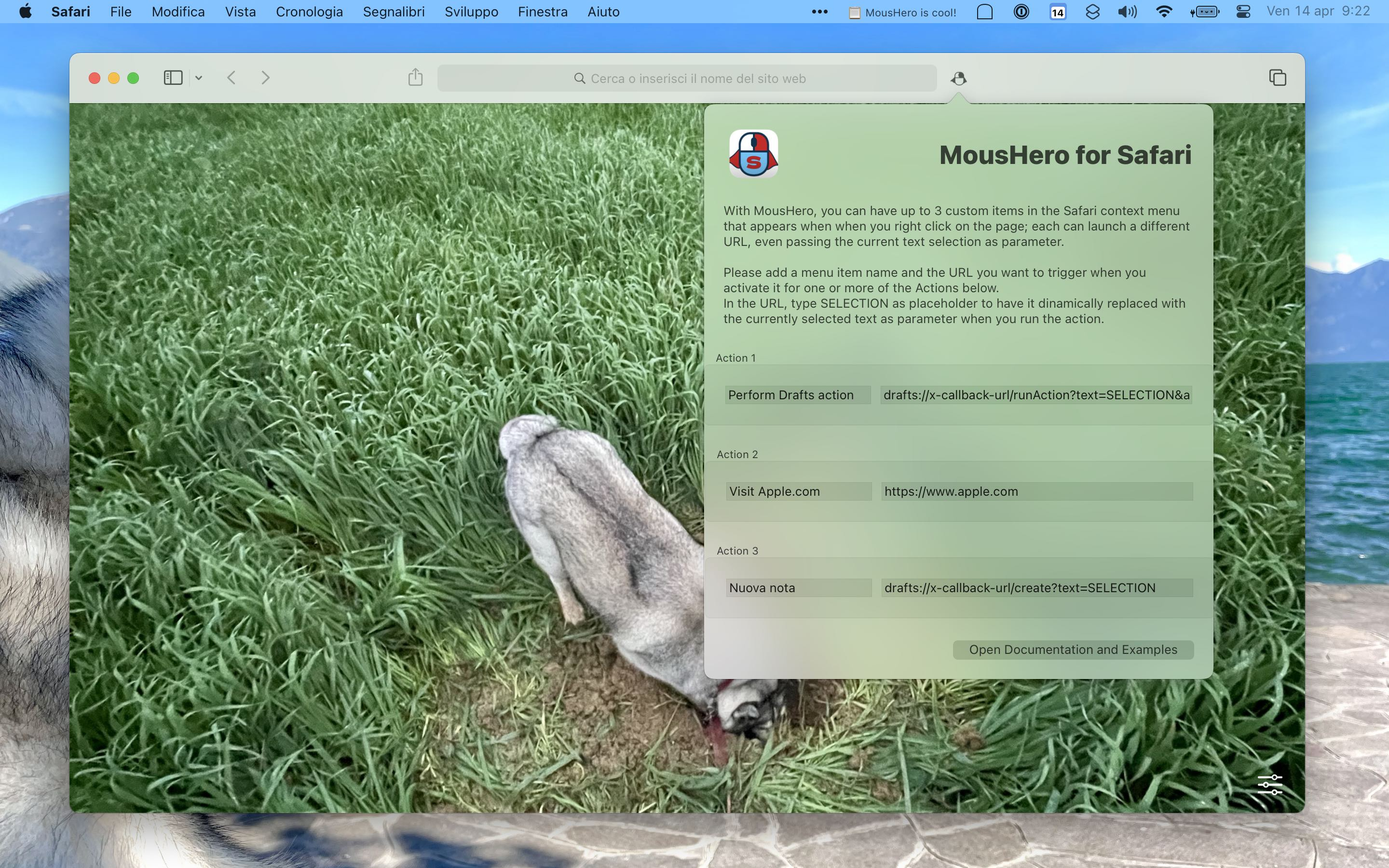
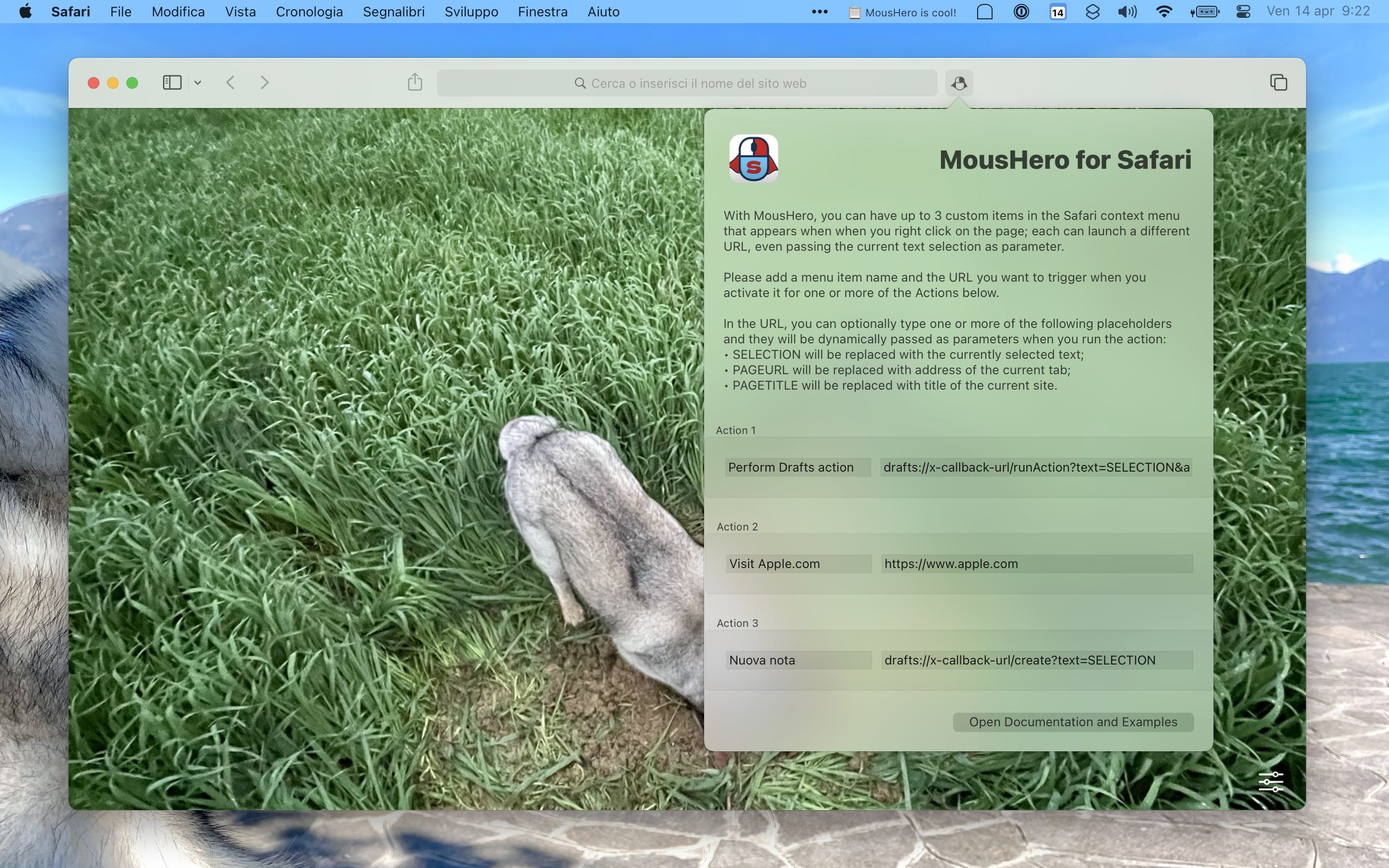
MousHero 1.1 website updates

diff --git a/moushero-for-safari/moushero-documentation-and-examples.md b/moushero-for-safari/moushero-documentation-and-examples.md
@@ -7,7 +7,7 @@ tags: [moushero]
 ---
 **_What is MousHero?_**<br>
 MousHero _(mouse-hero)_ is a **Safari for Mac extension** that adds automation superpowers to your browsing experience: **trigger URL actions by adding up to 3 custom context menu items to Safari's right-click menu**.<br>
-Just by right-clicking on a webpage, you'll be able to launch apps, services and automations _(for instance with third party applications such as Shortcuts, Keyboard Maestro, Drafts, etc.)_, optionally passing the currently selected text as parameter.
+Just by right-clicking on a webpage, you'll be able to launch apps, services and automations _(for instance with third party applications such as Shortcuts, Keyboard Maestro, Drafts, etc.)_, optionally passing the currently selected text, page URL and title as parameters.
 <br>
 
 **_How do I configure MousHero?_**<br>
@@ -19,23 +19,27 @@ d. Add a name for the custom menu item and the URL you want to execute when you 
 e. Now, right-click anywhere in your Safari page, or select some text and then right-click, and your custom actions will appear in the context menu.
 <br>
 
-**_Can I pass the selected text as parameter in the action URL?_**<br>
-Yes! **Just type in SELECTION as placeholder in the URL**, and MousHero will take care of replacing it while properly percent-encoding the text. See the examples below for details.
+**_Can I pass the selected text as parameter into the action URL? What about the website address and title?_**<br>
+Yes, yes and yes! **Just type in SELECTION as placeholder in the action URL to have it dynamically replaced with the selected text when you run the action**.<br>
+Additional placeholders are **PAGEURL for the website address** and **PAGETITLE for the, you guessed it, title of the current page**.
+And you can combine multiple placeholders in a single action URL, MousHero will take care of replacing them while properly percent-encoding the text. See the examples below for details.
 <br>
 
 **_I need some examples of URLs I can use..._**<br>
 You can add any kind of URL to a MousHero action, so the only limits are your imagination and the availability of a URL scheme for the third-party applications and services you're using.
-Here's a few examples of what you'll be able to achieve with just a right-click inside Safari, to inspire you and show how the SELECTION placeholder can be used to pass the currently selected text as parameter in the URL:
+Here's a few examples of what you'll be able to achieve with just a right-click inside Safari, to inspire you and show how the SELECTION, PAGEURL and PAGETITLE placeholders can be used to pass informations as parameters in the URL:
 
 | Use case  | URL                                                                                                                |
 |-----------|--------------------------------------------------------------------------------------------------------------------|
 | Open a specific website in a new panel                | _https://www.instagram.com/millakillapilla/_                           |
 | Run your Shortcuts                                    | _shortcuts://run-shortcutname=ShortcutName_                            |
-| Run your Shortucts passing the selection as parameter | _shortcuts://run-shortcut?name=ShortcutName&input=text&text=SELECTION_ | 
+| Run your Shortucts passing the selection as parameter | _shortcuts://run-shortcut?name=ShortcutName&input=text&text=SELECTION_ |
+| Run your Shortucts passing the page URL as parameter  | _shortcuts://run-shortcut?name=ShortcutName&input=text&text=PAGEURL_   | 
 | Create a new note in Drafts with the selected text    | _drafts://x-callback-url/create?text=SELECTION_                        |
 | Run a Drafts action without creating a new note       | _drafts://x-callback-url/runAction?text=SELECTION&action=ActionName_   |
 | Open the Inbox project in OmniFocus                   | _omnifocus:///inbox_                                                   |
 | Add the selected text as task in OmniFocus            | _omnifocus://x-callback-url/add?name=SELECTION_                        |
+| Add page title to OmniFocus with the URL in the note  | _omnifocus://x-callback-url/add?name=PAGETITLE&note=PAGEURL_           |
 | Run a Keyboard Maestro macro passing the selection    | _kmtrigger://macro=MacroName&value=SELECTION_                          |
 | Search the selected text on Google Maps               | _https://www.google.com/maps/search/SELECTION_                         |
 | Search the selected text on StackOverflow             | _https://stackoverflow.com/search?q=SELECTION_                         |

diff --git a/moushero-for-safari.md b/moushero-for-safari.md
@@ -15,7 +15,7 @@ nav-menu: true
 			<b>MousHero is a Safari extension that adds automation superpowers to your browsing experience: trigger URL actions by adding up to 3 custom context menu items to Safari's right-click menu.</b>
 			<br>
 			<br>
-			You'll be able to <b>launch apps, services and automations</b> (for instance with third party applications such as Shortcuts, Keyboard Maestro, Drafts, etc.), optionally passing the currently selected text as parameter.
+			You'll be able to <b>launch apps, services and automations</b> (for instance with third party applications such as Shortcuts, Keyboard Maestro, Drafts, etc.), optionally passing the currently selected text, page URL and title as parameters.
 		</p>
 				<p style="text-align:center">
 			<a href="https://apps.apple.com/us/app/moushero-for-safari/id6447680045" class="image" target="new">
@@ -25,7 +25,7 @@ nav-menu: true
 		<p>
 			<b><a href="{{ site.baseurl }}/moushero-for-safari/moushero-documentation-and-examples.html">MousHero Documentation</a> lists URL examples for many use cases</b>, but here's a few ideas of what you'll be able to achieve with just a right-click inside Safari:
 			<li>Run your Shortcuts, optionally passing the selected text as parameter;</li>
-			<li>Create a new note in Drafts with the selected text, or skip the note creation and directly execute a Drafts action on the selection;</li>
+			<li>Create a new note in Drafts with the selected text and site URL, or skip the note creation and directly execute a Drafts action on the selection;</li>
 			<li>Add the selected text as task in OmniFocus;</li>
 			<li>Run Keyboard Maestro automations with the selection as parameter;</li>
 			<li>Open any website;</li>
